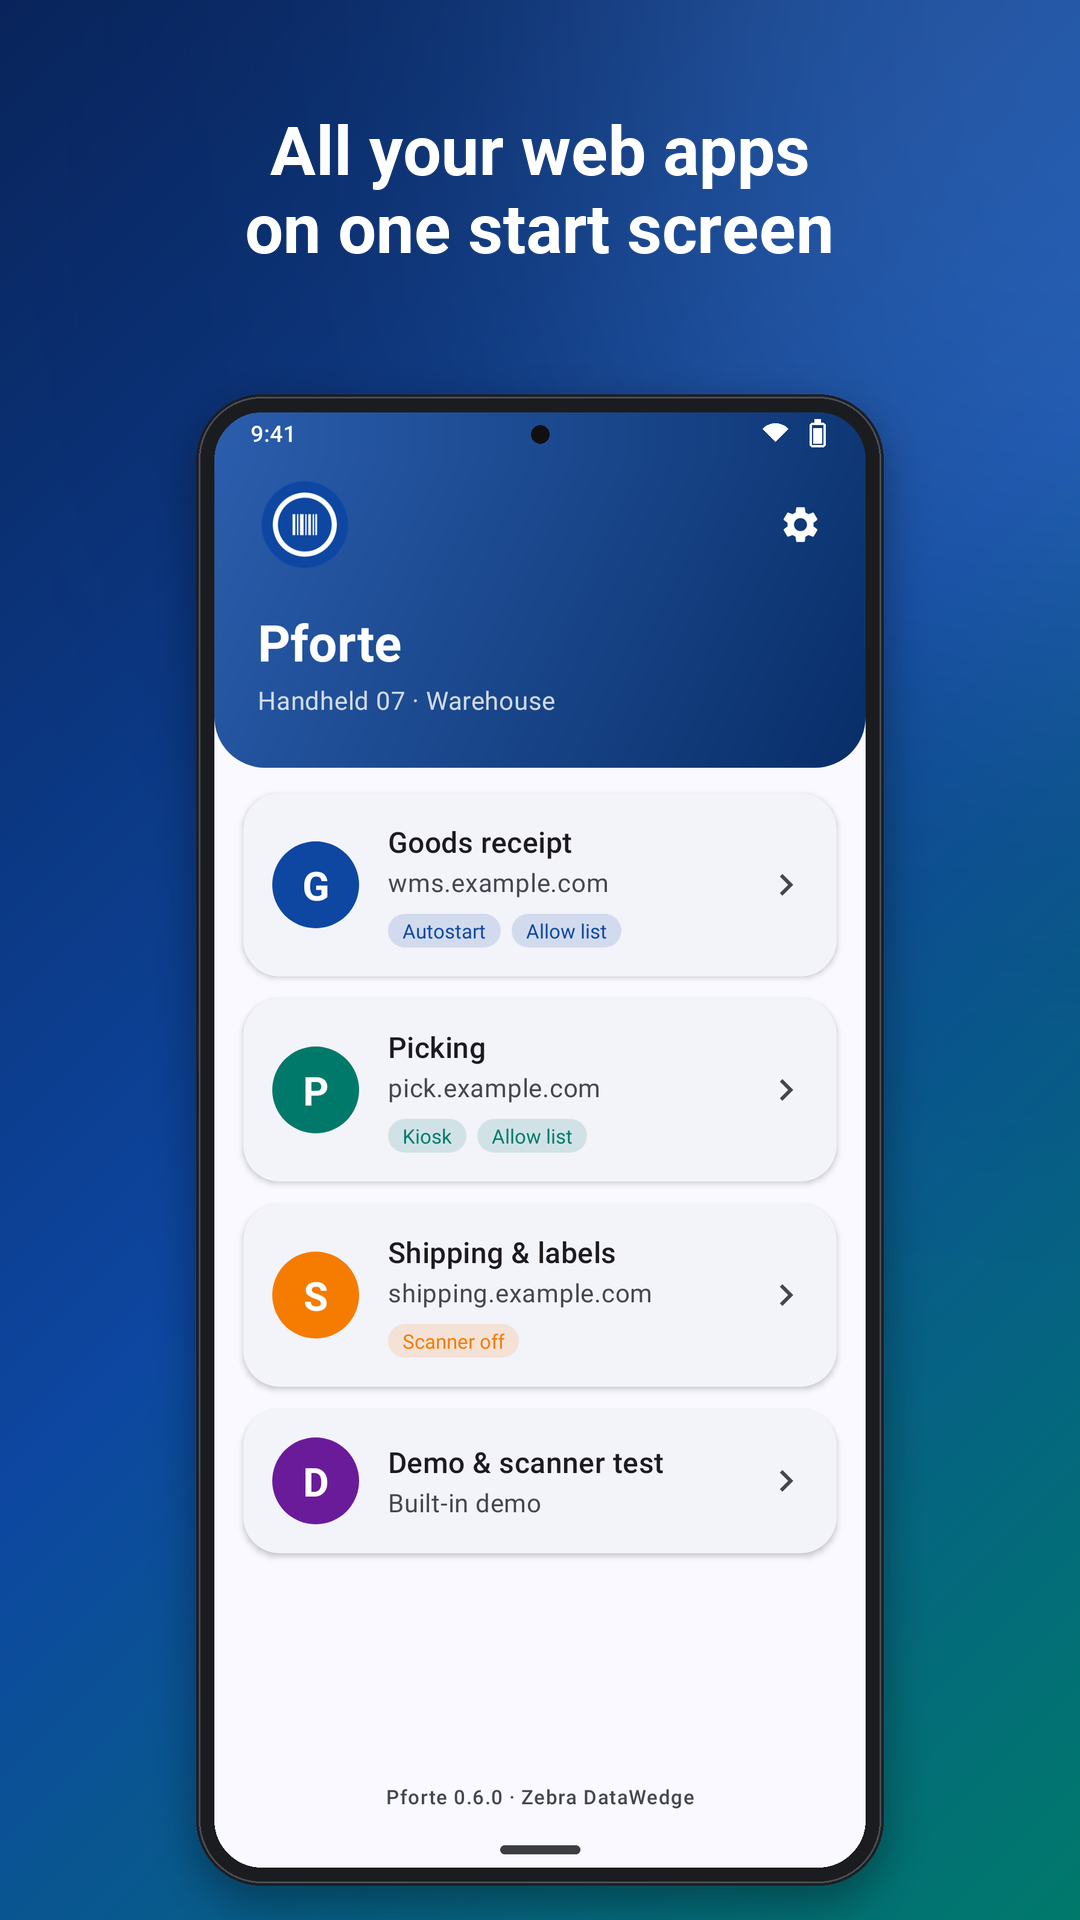
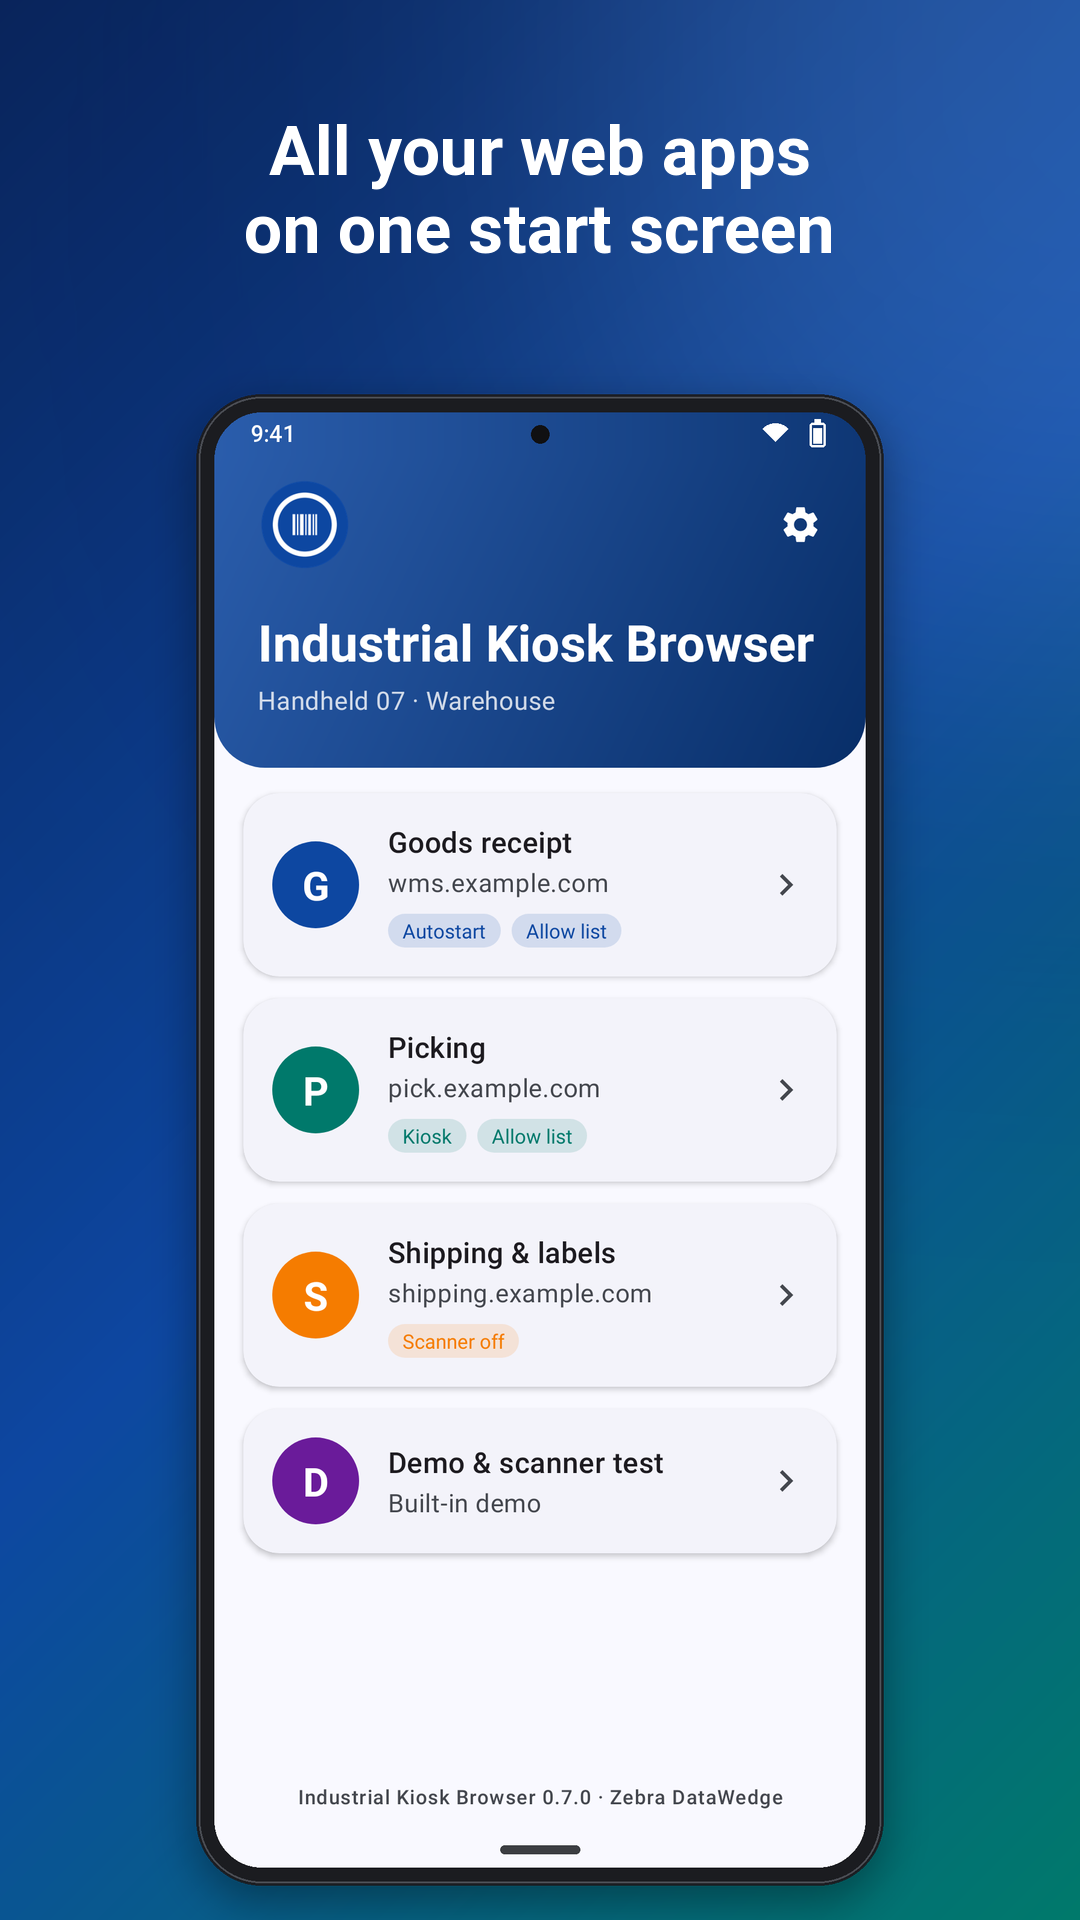
Doku- und Store-Bilder mit dem neuen Namen neu erzeugt
Robolectric-Screens, Webinhalte und Komposition nach tools/screenshots/README.md (gerendert in Containern).
Der Titel im Hero und in der Feature-Grafik wird so groß wie möglich gesetzt, ohne unter die Geräte zu laufen.

Claude-Session: https://claude.ai/code/session_01AbvsB6bkL317KnprbYqPv7

diff --git a/tools/screenshots/compose.py b/tools/screenshots/compose.py
@@ -217,7 +217,12 @@ hero.alpha_composite(front, (1135, 80))
 
 text_layer = Image.new("RGBA", hero.size, (0, 0, 0, 0))
 draw = ImageDraw.Draw(text_layer)
-draw.text((110, 300), "Industrial Kiosk Browser", font=font("Roboto-Black.ttf", 96), fill=(255, 255, 255, 255))
+# Title as large as possible without running under the phones (they start at x = 980)
+title = "Industrial Kiosk Browser"
+size = 96
+while size > 40 and draw.textlength(title, font=font("Roboto-Black.ttf", size)) > 830:
+    size -= 2
+draw.text((110, 300 + (96 - size) // 2), title, font=font("Roboto-Black.ttf", size), fill=(255, 255, 255, 255))
 draw.text((114, 420), "The kiosk browser for rugged Android devices", font=font("Roboto-Medium.ttf", 44), fill=(255, 255, 255, 230))
 draw.text((114, 486), "Scanner · Kiosk · MDM provisioning · JavaScript API", font=font("Roboto-Regular.ttf", 32), fill=(255, 255, 255, 175))
 hero.alpha_composite(text_layer)
